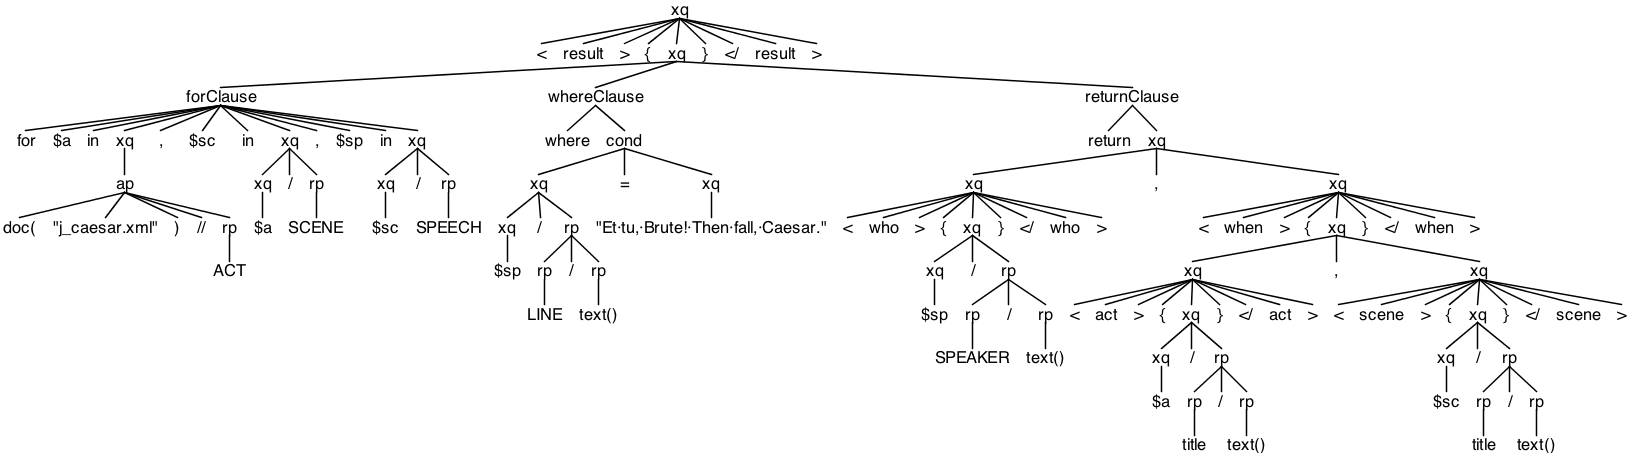
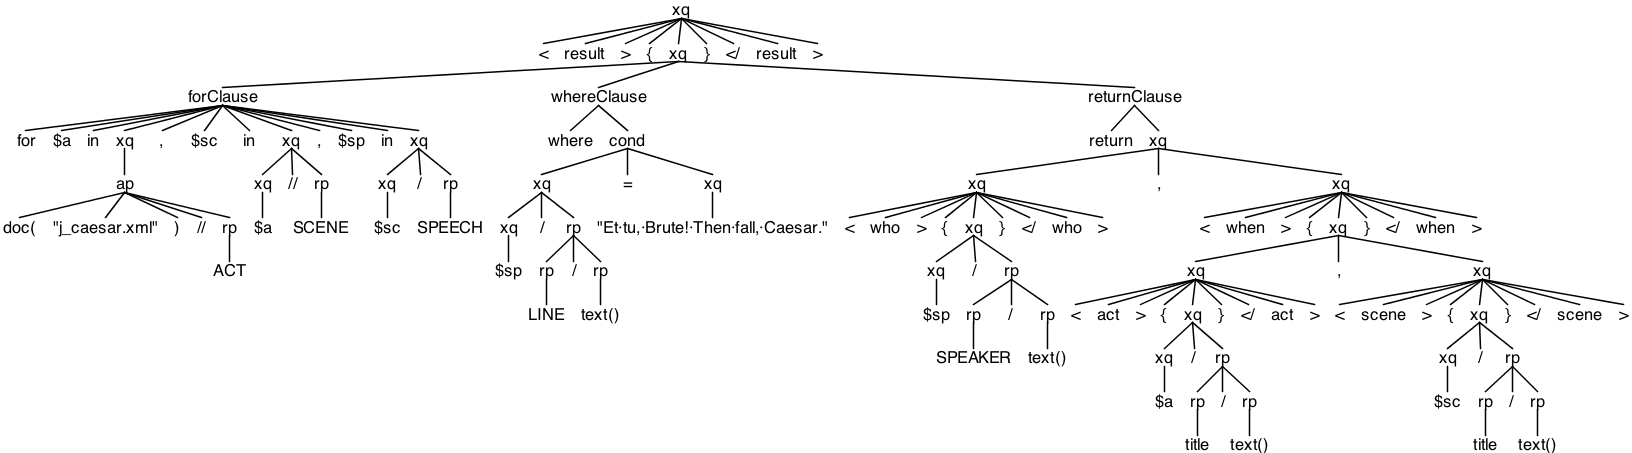
Update images of parse trees with updated grammar to allow // in XQ

diff --git a/milestone-1/m1_1110.tex b/milestone-1/m1_1110.tex
@@ -35,11 +35,10 @@ Finds act, scene and speaker of famous line \emph{Et tu, Brute! Then fall, Caesa
 \end{minted}
 
 \subsection{Query}
-We renamed \texttt{\$a//SCENE} to \texttt{\$a/SCENE}, since the first is not a  valid expression in our language implementation.
 \begin{minted}{xquery}
 <result>{
 for $a in doc("j_caesar.xml")//ACT,
-    $sc in $a/SCENE,
+    $sc in $a//SCENE,
     $sp in $sc/SPEECH
 where $sp/LINE/text() = "Et tu, Brute! Then fall, Caesar."
 return <who>{$sp/SPEAKER/text()}</who>,
@@ -63,12 +62,11 @@ See \cref{fig:parseTree1}.
 Groups all acts by speaker, that is, return a list of elements of type element  \texttt{speaks \{ element who \{String\}, (element when \{String\})+ \}}, where the String contents of the \texttt{<who>} element is a speaker name, and the contents of the \texttt{<when>} elements are act names.
 
 \subsection{Query}
-Again, we renamed \texttt{\$a//SPEAKER} to \texttt{\$a/SPEAKER}, since the first is not a  valid expression in our language implementation.
 \begin{minted}{xquery}
 for $s in doc("j_caesar.xml")//SPEAKER
 return <speaks>{<who>{$s/text()}</who>,
                 for $a in doc("j_caesar.xml")//ACT
-                where some $s1 in $a/SPEAKER satisfies $s1 eq $s
+                where some $s1 in $a//SPEAKER satisfies $s1 eq $s
                 return <when>{$a/title/text()}</when>}
        </speaks>
 \end{minted}
